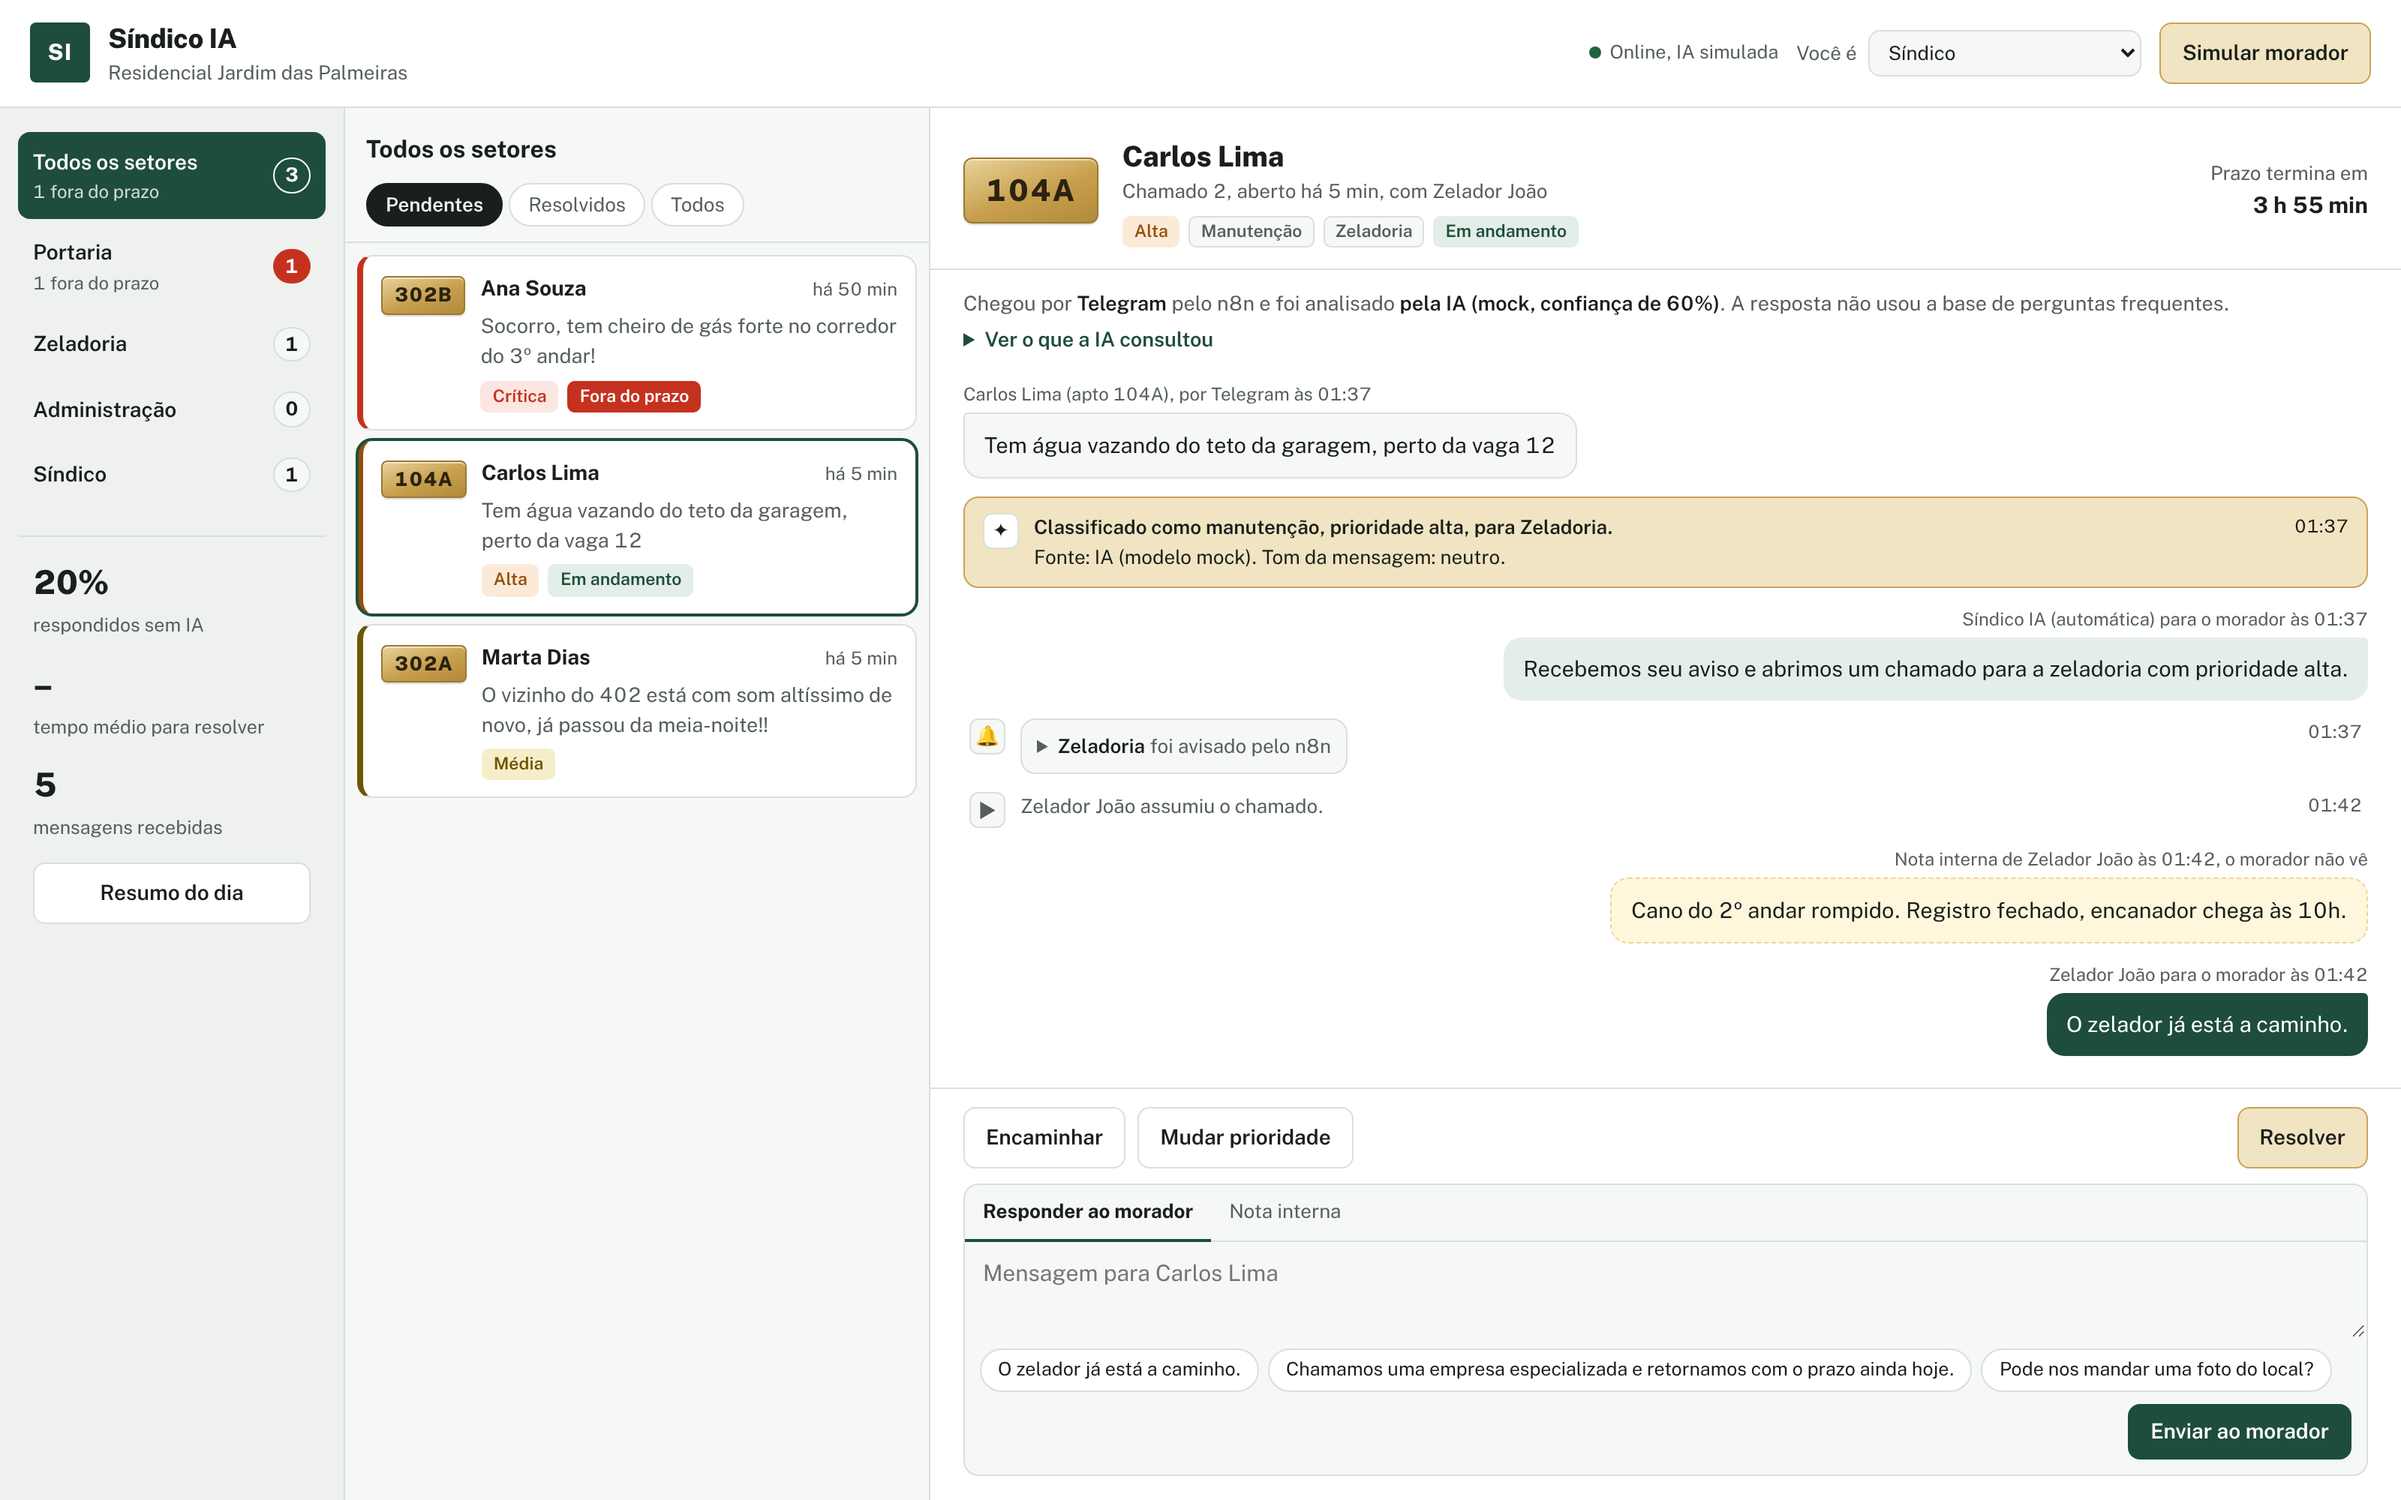
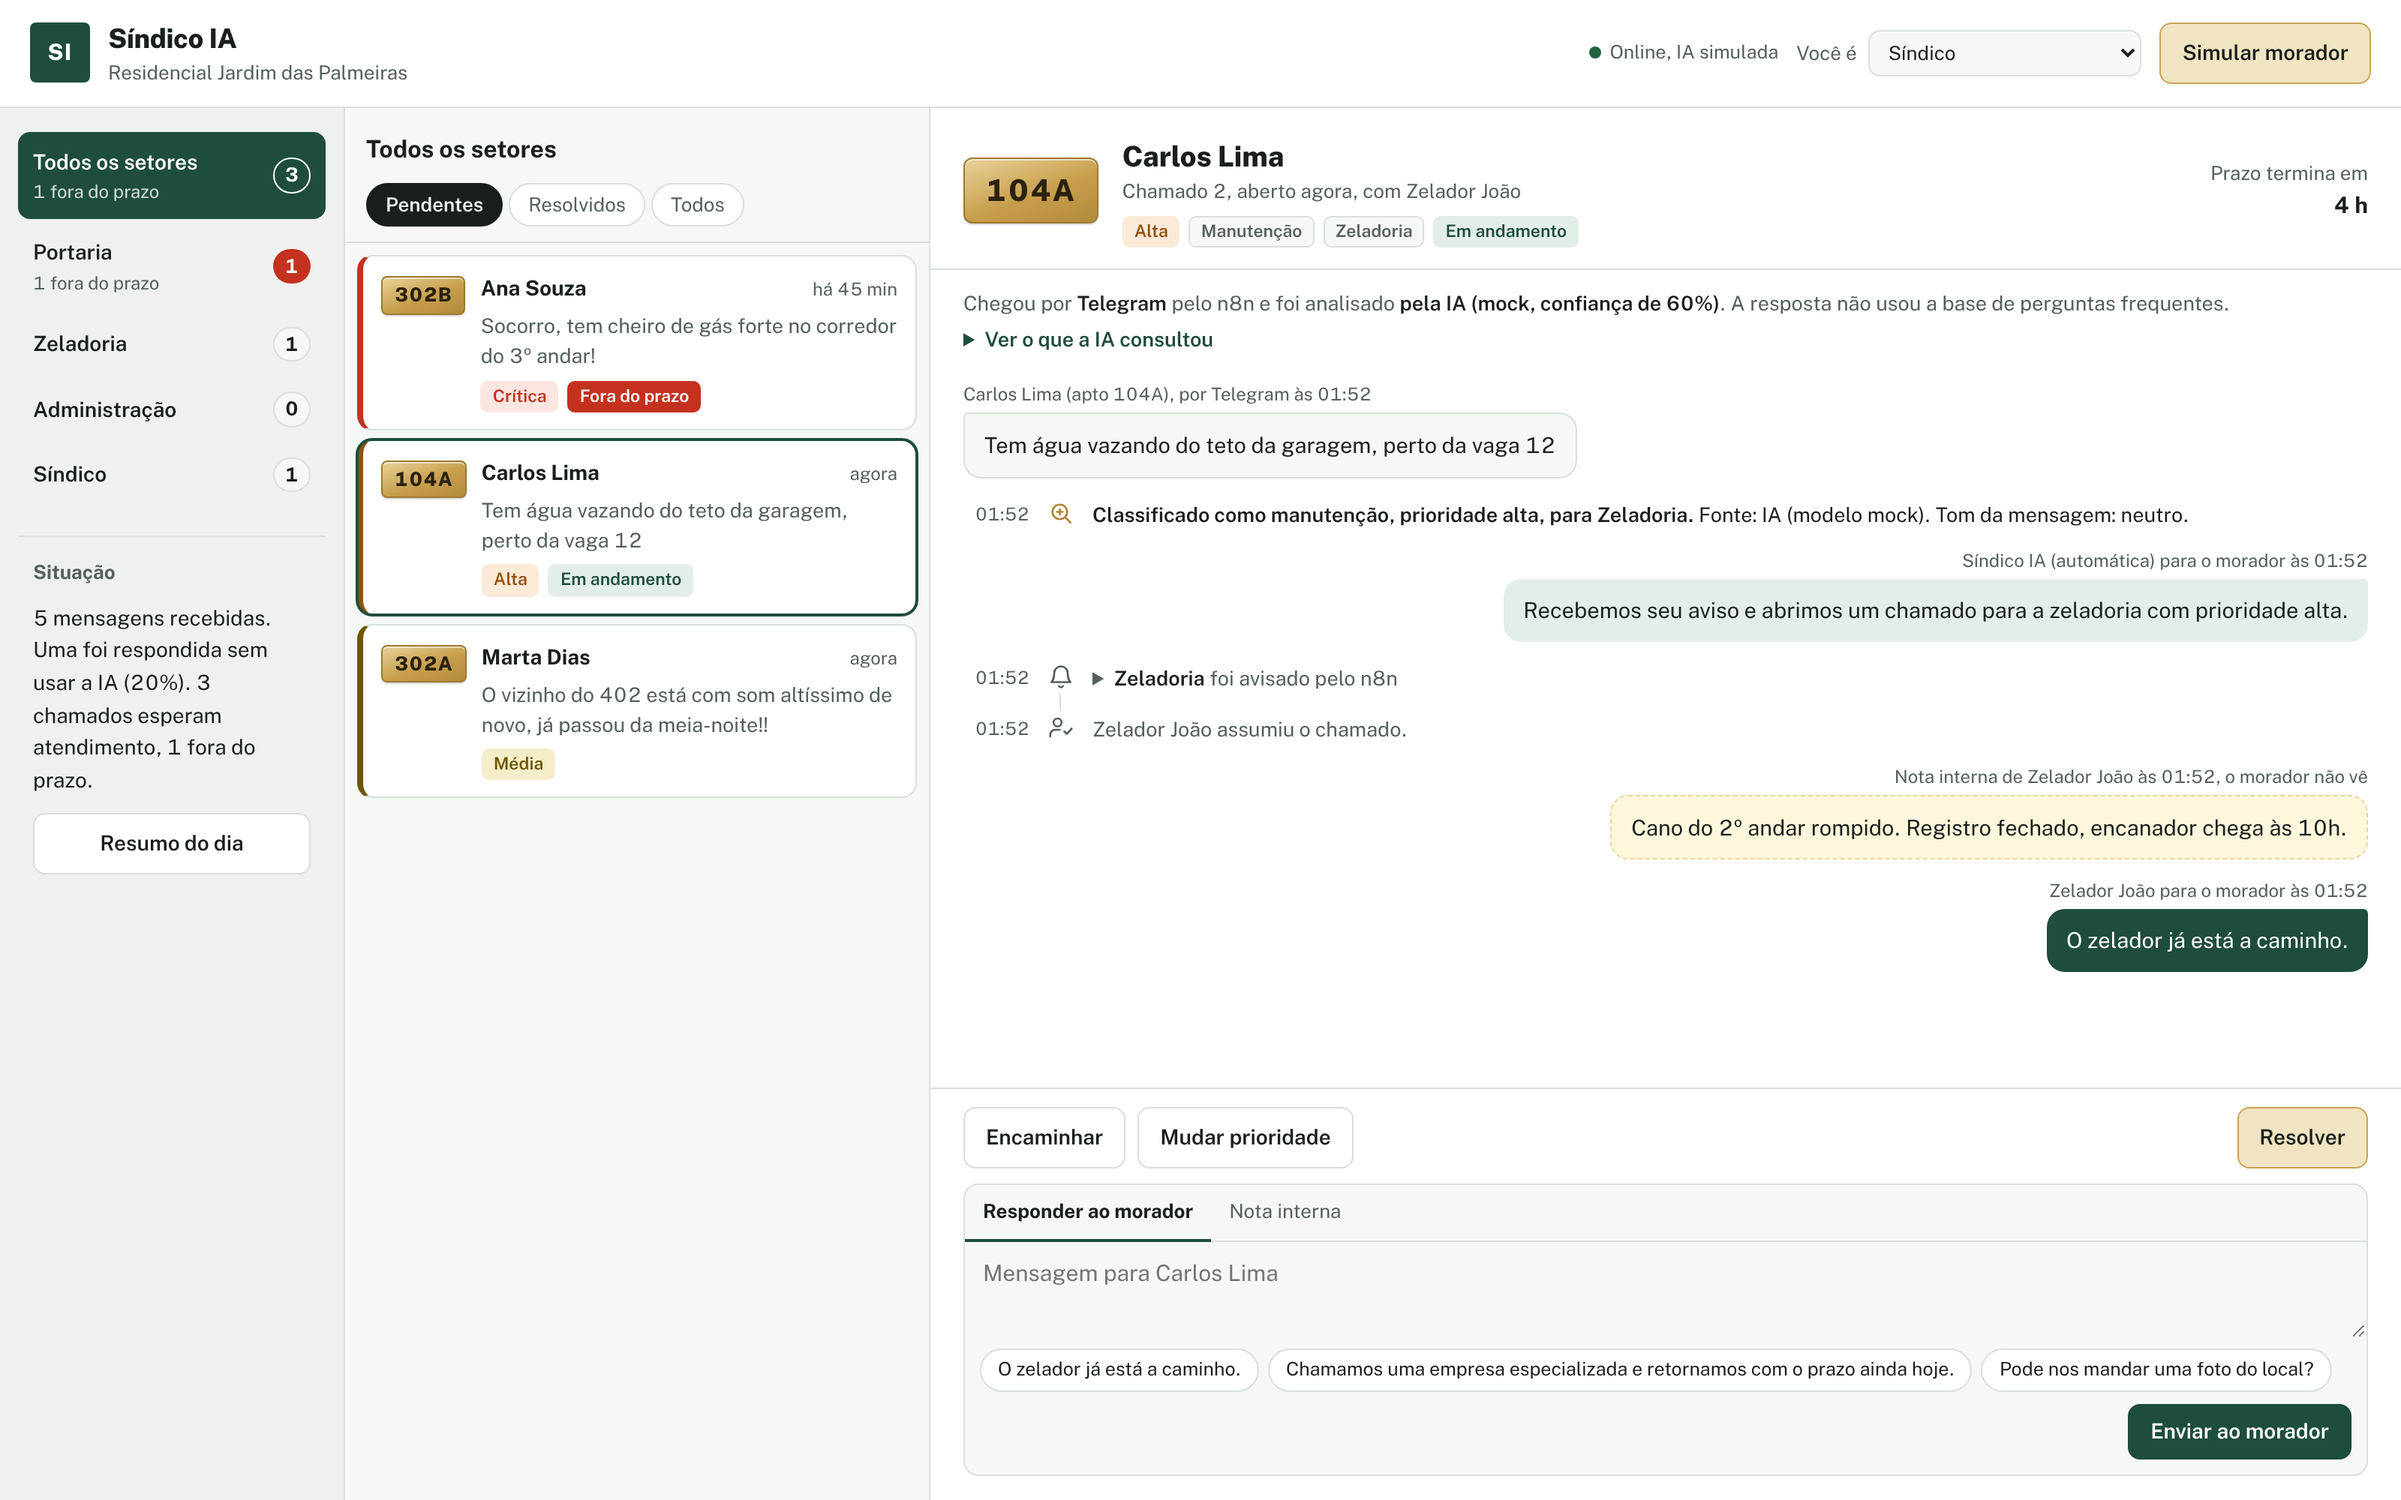
Refina a central: ícones desenhados, situação em frase e livro de ocorrências
Troca os emojis da conversa por um conjunto de ícones SVG com o mesmo
traço. Os indicadores viram uma frase que conta a situação do condomínio.
Os registros do sistema e da equipe passam a ser entradas de um livro de
ocorrências (horário em coluna fixa, linha ligando os registros, sem
caixas), separados visualmente dos balões da conversa com o morador.
Atualiza os prints da central e das métricas.

Claude-Session: https://claude.ai/code/session_01EAfEb2BscMm3wdCWeKWw7Z

diff --git a/app/static/app.js b/app/static/app.js
@@ -51,6 +51,8 @@ const estado = {
 };
 
 // ------------------------------------------------------------------ utilidades
+const ico = (nome) => `<svg class="ico" aria-hidden="true" focusable="false"><use href="#i-${nome}"/></svg>`;
+
 function esc(t) { const d = document.createElement("div"); d.textContent = t ?? ""; return d.innerHTML; }
 const autor = () => $("#atuando").value;
 
@@ -100,6 +102,21 @@ function avisar(texto) {
 }
 
 // ------------------------------------------------------------------ caixas e indicadores
+const plural = (n, um, varios) => `${n} ${n === 1 ? um : varios}`;
+
+// Os números do condomínio contados em uma frase, como o síndico contaria
+function situacao(m, pendentes, atrasados) {
+  if (!m.total) return "Nenhuma mensagem recebida ainda.";
+  const semIa = m.chamadas_ia_economizadas ?? 0;
+  const partes = [`${plural(m.total, "mensagem recebida", "mensagens recebidas")}.`];
+  if (semIa) partes.push(`${semIa === 1 ? "Uma foi respondida" : `${semIa} foram respondidas`} sem usar a IA (${m.percentual_sem_ia}%).`);
+  partes.push(pendentes ? `${plural(pendentes, "chamado espera", "chamados esperam")} atendimento${atrasados ? `, ${plural(atrasados, "fora", "fora")} do prazo` : ""}.` : "Nada esperando atendimento.");
+  if (m.tempo_medio_resolucao_min != null) {
+    const t = m.tempo_medio_resolucao_min < 1 ? "menos de 1 minuto" : duracao(m.tempo_medio_resolucao_min);
+    partes.push(`A equipe leva em média ${t} para resolver.`);
+  }
+  return partes.join(" ");
+}
 async function carregarCaixas() {
   const [caixas, m] = await Promise.all([api("/caixas"), api("/metricas")]);
   const pendTotal = Object.values(caixas).reduce((s, c) => s + c.pendentes, 0);
@@ -113,9 +130,7 @@ async function carregarCaixas() {
       <span class="contador${atras ? " alerta" : ""}"><span class="sr-only">, </span>${pend}<span class="sr-only"> pendentes</span></span>
     </button></li>`).join("");
 
-  $("#i-sem-ia").textContent = `${m.percentual_sem_ia ?? 0}%`;
-  $("#i-tempo").textContent = m.tempo_medio_resolucao_min == null ? "–" : duracao(m.tempo_medio_resolucao_min);
-  $("#i-total").textContent = m.total;
+  $("#situacao").innerHTML = situacao(m, pendTotal, atrasTotal);
 }
 
 $("#lista-caixas").addEventListener("click", (e) => {
@@ -292,27 +307,28 @@ function eventoHtml(e, c) {
         d.sentimento ? `Tom da mensagem: ${esc(d.sentimento)}.` : "",
         d.guarda_corpo ? "<strong>Regra de segurança aplicada:</strong> palavras de emergência forçaram a prioridade crítica." : "",
       ].filter(Boolean).join(" ");
-      return `<div class="ev ev-sistema ev-analise"><span class="icone" aria-hidden="true">✦</span>
-        <div><strong>${esc(e.texto)}</strong><br>${extras}
+      return registro(h, "analise", `<strong>${esc(e.texto)}</strong> ${extras}
         ${d.transcricao_anexo ? `<div class="trecho">Anexo: ${esc(d.transcricao_anexo)}</div>` : ""}
-        ${(d.fontes || []).length ? `<div class="trecho">Base usada: ${esc(d.fontes.map((f) => f.pergunta).join("; "))}${d.trecho_regimento ? `<br>Regimento: “${esc(d.trecho_regimento)}”` : ""}</div>` : ""}</div>
-        <span class="ev-hora">${h}</span></div>`;
+        ${(d.fontes || []).length ? `<div class="trecho">Base usada: ${esc(d.fontes.map((f) => f.pergunta).join("; "))}${d.trecho_regimento ? `<br>Regimento: “${esc(d.trecho_regimento)}”` : ""}</div>` : ""}`, "ev-analise");
     }
     case "alerta_setor":
-      return `<div class="ev ev-sistema"><span class="icone" aria-hidden="true">🔔</span>
-        <div class="ev-alerta"><details><summary><strong>${esc(e.destino)}</strong> foi avisado pelo n8n</summary><pre>${esc(e.texto)}</pre></details></div>
-        <span class="ev-hora">${h}</span></div>`;
+      return registro(h, "sino", `<details><summary><strong>${esc(e.destino)}</strong> foi avisado pelo n8n</summary><pre>${esc(e.texto)}</pre></details>`, "ev-alerta");
     case "status": {
-      const icone = e.dados.para === "resolvido" ? "✓" : e.dados.para === "em_andamento" ? "▶" : "↺";
-      return `<div class="ev ev-sistema"><span class="icone" aria-hidden="true">${icone}</span><div>${esc(e.texto)}</div><span class="ev-hora">${h}</span></div>`;
+      const nome = e.dados.para === "resolvido" ? "resolvido" : e.dados.para === "em_andamento" && e.dados.de === "aberto" ? "assumir" : "reabrir";
+      return registro(h, nome, esc(e.texto), e.dados.para === "resolvido" ? "ev-ok" : "");
     }
     case "encaminhamento":
-      return `<div class="ev ev-sistema"><span class="icone" aria-hidden="true">⇄</span><div><strong>${esc(e.autor)}</strong>: ${esc(e.texto)}</div><span class="ev-hora">${h}</span></div>`;
+      return registro(h, "encaminhar", `<strong>${esc(e.autor)}</strong>: ${esc(e.texto)}`);
     case "prioridade":
-      return `<div class="ev ev-sistema"><span class="icone" aria-hidden="true">!</span><div><strong>${esc(e.autor)}</strong>: ${esc(e.texto)}</div><span class="ev-hora">${h}</span></div>`;
+      return registro(h, "prioridade", `<strong>${esc(e.autor)}</strong>: ${esc(e.texto)}`);
     default:
       return `<div class="ev ev-sistema"><div>${esc(e.texto)}</div></div>`;
   }
+}
+
+// Entrada do livro de ocorrências: horário, marca e texto, sem caixa em volta
+function registro(h, icone, html, classe = "") {
+  return `<div class="ev ev-sistema ${classe}"><time class="ev-hora">${h}</time><span class="marco">${ico(icone)}</span><div class="ev-texto">${html}</div></div>`;
 }
 
 function botoesHtml(c) {

diff --git a/app/static/styles.css b/app/static/styles.css
@@ -144,9 +144,9 @@ button, input, select, textarea { font: inherit; color: inherit; }
 .caixa.ativa .contador { background: transparent; border-color: currentColor; }
 .contador.alerta { background: var(--critica); color: #fff; border-color: transparent; }
 
-.indicadores { display: flex; flex-direction: column; gap: 12px; padding: 14px 10px 0; border-top: 1px solid var(--linha); }
-.ind strong { display: block; font-size: 22px; font-weight: 800; letter-spacing: -.02em; }
-.ind span { font-size: 12.5px; color: var(--tinta-2); }
+.indicadores { display: flex; flex-direction: column; gap: 10px; padding: 14px 10px 0; border-top: 1px solid var(--linha); }
+.indicadores h2 { font-size: 13px; font-weight: 700; color: var(--tinta-2); }
+#situacao { font-size: 14px; line-height: 1.55; max-width: 34ch; }
 
 /* Fila */
 .fila { border-right: 1px solid var(--linha); background: var(--superficie-2); }
@@ -238,15 +238,33 @@ button, input, select, textarea { font: inherit; color: inherit; }
 .ev-nota { align-self: flex-end; align-items: flex-end; }
 .ev-nota .ev-balao { background: var(--nota); border: 1px dashed var(--nota-borda); color: var(--tinta); }
 
-.ev-sistema { align-self: stretch; max-width: none; flex-direction: row; gap: 10px; align-items: flex-start; font-size: 13px; color: var(--tinta-2); padding: 0 4px; }
-.ev-sistema .icone { width: 24px; height: 24px; flex: none; border-radius: 6px; display: grid; place-items: center; background: var(--superficie-2); border: 1px solid var(--linha); font-size: 13px; }
+/* Livro de ocorrências: o que o sistema e a equipe fizeram.
+   Horário numa coluna fixa, uma linha vertical ligando os registros, sem caixas. */
+.ev-sistema {
+  align-self: stretch; max-width: none; position: relative;
+  display: grid; grid-template-columns: 44px 22px 1fr; gap: 0 10px; align-items: start;
+  font-size: 13.5px; color: var(--tinta-2);
+}
+.ev-sistema::before {
+  content: ""; position: absolute; left: 64px; top: -12px; bottom: -12px; width: 1px; background: var(--linha);
+}
+:not(.ev-sistema) + .ev-sistema::before { top: 11px; }
+.ev-sistema:has(+ :not(.ev-sistema))::before, .ev-sistema:last-child::before { bottom: auto; height: 11px; }
+:not(.ev-sistema) + .ev-sistema:has(+ :not(.ev-sistema))::before,
+:not(.ev-sistema) + .ev-sistema:last-child::before { display: none; }
+.ev-hora { font-size: 12px; text-align: right; padding-top: 3px; color: var(--tinta-2); }
+.marco {
+  position: relative; z-index: 1; width: 22px; height: 22px; display: grid; place-items: center;
+  background: var(--superficie); color: var(--tinta-2);
+}
+.ico { width: 18px; height: 18px; fill: none; stroke: currentColor; stroke-width: 1.75; stroke-linecap: round; stroke-linejoin: round; }
+.ev-texto { padding-top: 2px; min-width: 0; }
 .ev-sistema strong { color: var(--tinta); font-weight: 600; }
-.ev-sistema .ev-hora { margin-left: auto; white-space: nowrap; font-size: 12px; }
-.ev-alerta { border: 1px solid var(--linha); border-radius: var(--raio); padding: 8px 10px; background: var(--superficie-2); }
-.ev-alerta details summary { cursor: pointer; }
-.ev-alerta pre { margin: 6px 0 0; white-space: pre-wrap; font: 12.5px/1.45 "Public Sans", sans-serif; color: var(--tinta); }
-.ev-analise { border: 1px solid var(--latao-borda); background: var(--latao-claro); border-radius: var(--raio); padding: 10px 12px; color: var(--tinta); }
-.ev-analise .icone { background: var(--superficie); }
+.ev-sistema details summary { cursor: pointer; width: fit-content; }
+.ev-sistema pre { margin: 6px 0 2px; padding-left: 10px; border-left: 2px solid var(--linha); white-space: pre-wrap; font: 12.5px/1.5 "Public Sans", sans-serif; color: var(--tinta); }
+.ev-analise .marco { color: var(--latao); }
+.ev-analise .ev-texto { color: var(--tinta); }
+.ev-ok .marco { color: var(--baixa); }
 .trecho { margin-top: 6px; padding-left: 10px; border-left: 3px solid var(--latao); font-size: 13px; color: var(--tinta-2); }
 
 /* Ações */
@@ -318,8 +336,8 @@ button, input, select, textarea { font: inherit; color: inherit; }
   .caixas ul { flex-direction: row; overflow-x: auto; gap: 6px; padding-bottom: 4px; }
   .caixa { width: auto; flex: none; border: 1px solid var(--linha); background: var(--superficie); }
   .caixa .sub { display: none; }
-  .indicadores { flex-direction: row; flex-wrap: wrap; border: 0; padding: 0; gap: 8px 16px; align-items: center; }
-  .ind strong { font-size: 17px; display: inline; margin-right: 4px; }
+  .indicadores { border: 0; padding: 0; }
+  #situacao { max-width: none; }
   .fila { border: 0; background: transparent; overflow: visible; }
   .fila-topo { position: static; background: transparent; border: 0; padding: 14px 16px 4px; }
   .lista { padding: 8px 16px 24px; }

diff --git a/app/static/index.html b/app/static/index.html
@@ -10,6 +10,17 @@
   <link rel="stylesheet" href="styles.css">
 </head>
 <body>
+  <svg width="0" height="0" style="position:absolute" aria-hidden="true" focusable="false">
+    <defs>
+      <symbol id="i-analise" viewBox="0 0 24 24"><circle cx="11" cy="11" r="6.5"/><path d="m16 16 4.5 4.5M8.5 11h5M11 8.5v5"/></symbol>
+      <symbol id="i-sino" viewBox="0 0 24 24"><path d="M6 9a6 6 0 0 1 12 0c0 6 2.5 8 2.5 8h-17S6 15 6 9"/><path d="M10.2 20.5a2 2 0 0 0 3.6 0"/></symbol>
+      <symbol id="i-assumir" viewBox="0 0 24 24"><circle cx="9" cy="7.5" r="3.5"/><path d="M2.5 20v-1.5A4.5 4.5 0 0 1 7 14h4"/><path d="m15 15.5 2.2 2.2 4.3-4.7"/></symbol>
+      <symbol id="i-resolvido" viewBox="0 0 24 24"><circle cx="12" cy="12" r="9"/><path d="m8 12.3 2.8 2.8L16.3 9"/></symbol>
+      <symbol id="i-reabrir" viewBox="0 0 24 24"><path d="M3.5 12a8.5 8.5 0 1 0 2.6-6.1L3.5 8.3"/><path d="M3.5 3.5v4.8h4.8"/></symbol>
+      <symbol id="i-encaminhar" viewBox="0 0 24 24"><path d="m16 3.5 4 4-4 4M20 7.5H4.5M8 20.5l-4-4 4-4M4 16.5h15.5"/></symbol>
+      <symbol id="i-prioridade" viewBox="0 0 24 24"><path d="M5 21V4M5 4h12.5l-2.5 4.5 2.5 4.5H5"/></symbol>
+    </defs>
+  </svg>
   <a class="pular" href="#lista">Pular para a fila de chamados</a>
   <header class="topo">
     <div class="marca">
@@ -37,10 +48,9 @@
     <!-- Caixas por setor e indicadores -->
     <nav class="caixas" aria-label="Caixas por setor">
       <ul id="lista-caixas"></ul>
-      <section class="indicadores" aria-label="Indicadores">
-        <div class="ind"><strong id="i-sem-ia">–</strong><span>respondidos sem IA</span></div>
-        <div class="ind"><strong id="i-tempo">–</strong><span>tempo médio para resolver</span></div>
-        <div class="ind"><strong id="i-total">–</strong><span>mensagens recebidas</span></div>
+      <section class="indicadores" aria-labelledby="t-situacao">
+        <h2 id="t-situacao">Situação</h2>
+        <p id="situacao">Carregando…</p>
         <button id="abrir-resumo" class="btn btn-contorno" type="button">Resumo do dia</button>
       </section>
     </nav>
